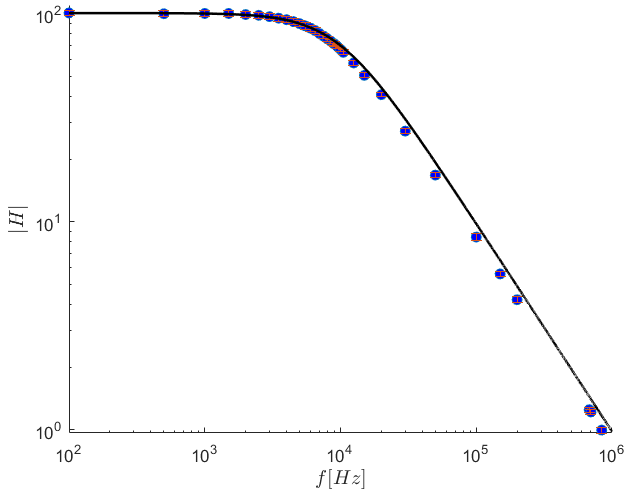
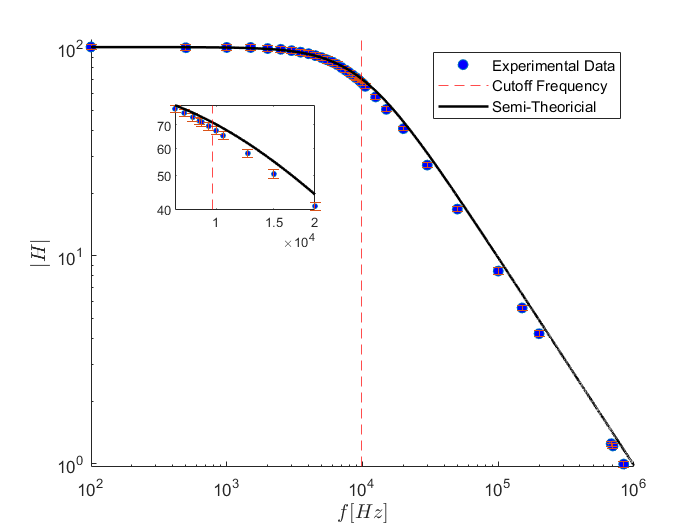
update graphs

diff --git a/lab6.m b/lab6.m
@@ -72,7 +72,7 @@ hold on
 p1s = scatter(f1,H1,'o','MarkerFaceColor','b');
 errorbar(f1,H1,dH1,'vertical','LineStyle','none')
 p1p = plot(f_theo,H_theo1,'k','LineWidth',1.5);
-cutoff1 = xline(f01,'--r')
+cutoff1 = xline(f01,'--r');
 xlabel('$f[Hz]$','FontSize',12)
 ylabel('$|H|$','FontSize',12)
 legend([p1s cutoff1 p1p],{'Experimental Data','Cutoff Frequency','Semi-Theoricial'})
@@ -82,8 +82,8 @@ box on;hold on
 set(gca,'xscale','log','yscale','log','defaulttextinterpreter','Latex')
 plot(f1_sub,H1_sub,'o','MarkerSize',3,'MarkerFaceColor','b')
 errorbar(f1_sub,H1_sub,dH1_sub,'vertical','LineStyle','none')
-xline(f01,'--r')
-plot(f_theo,H_theo1,'k','LineWidth',1.5)
+xline(f01,'--r');
+plot(f_theo,H_theo1,'k','LineWidth',1.5);
 xlabel('','FontSize',10,'Interpreter','latex')
 ylabel('','FontSize',10,'Interpreter','latex')
 xlim([f1_sub(1) f1_sub(end)])
@@ -96,7 +96,7 @@ hold on
 p2s = scatter(f2,H2,'o','MarkerFaceColor','b');
 errorbar(f2,H2,dH2,'vertical','LineStyle','none')
 p2p = plot(f_theo,H_theo2,'k','LineWidth',1.5);
-cutoff2 = xline(f02,'--r')
+cutoff2 = xline(f02,'--r');
 xlabel('$f[Hz]$','FontSize',12)
 ylabel('$|H|$','FontSize',12)
 legend([p2s cutoff2 p2p],{'Experimental Data','Cutoff Frequency','Semi-Theoricial'})
@@ -107,7 +107,7 @@ set(gca,'xscale','log','yscale','log','defaulttextinterpreter','Latex')
 plot(f2_sub,H2_sub,'o','MarkerSize',3,'MarkerFaceColor','b')
 errorbar(f2_sub,H2_sub,dH2_sub,'vertical','LineStyle','none')
 plot(f_theo,H_theo2,'k','LineWidth',1.5)
-xline(f02,'--r')
-xlabel('$f[Hz]$','FontSize',10,'Interpreter','latex')
-ylabel('$|H|$','FontSize',10,'Interpreter','latex')
+xline(f02,'--r');
+xlabel('','FontSize',10,'Interpreter','latex')
+ylabel('','FontSize',10,'Interpreter','latex')
 xlim([f2_sub(1) f2_sub(end)])
